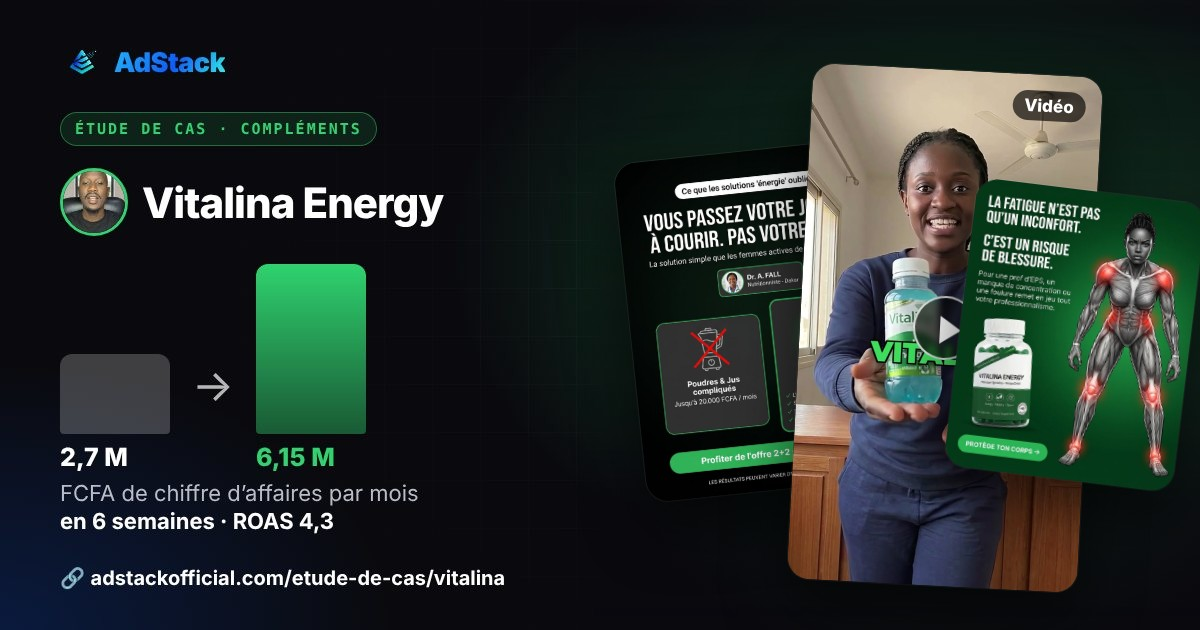
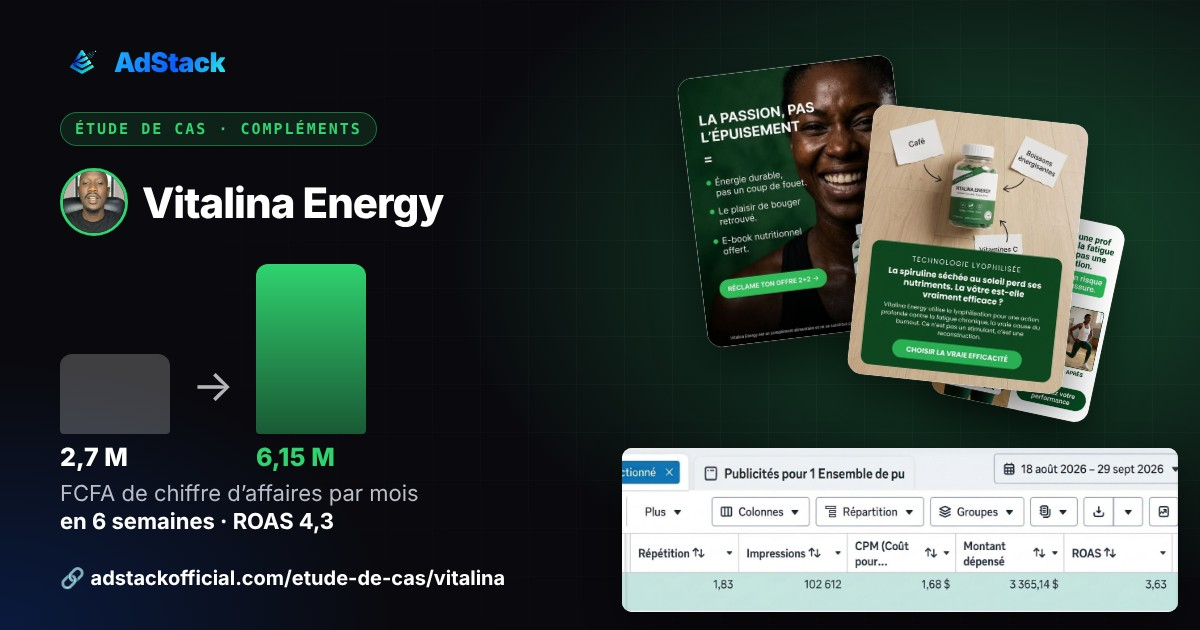
Vitalina: preuve Ads Manager

diff --git a/public/etude-de-cas-vitalina.html b/public/etude-de-cas-vitalina.html
@@ -9,11 +9,11 @@
 <meta property="og:title" content="Vitalina Energy : 2,7 M → 6,15 M FCFA par mois en 6 semaines">
 <meta property="og:description" content="Étude de cas AdStack : comment une marque de compléments a doublé son chiffre d’affaires mensuel.">
 <meta property="og:url" content="https://www.adstackofficial.com/etude-de-cas/vitalina">
-<meta property="og:image" content="https://www.adstackofficial.com/assets/miniatures/etude-de-cas-vitalina.jpg?v=2">
+<meta property="og:image" content="https://www.adstackofficial.com/assets/miniatures/etude-de-cas-vitalina.jpg?v=3">
 <meta property="og:image:width" content="1200">
 <meta property="og:image:height" content="630">
 <meta name="twitter:card" content="summary_large_image">
-<meta name="twitter:image" content="https://www.adstackofficial.com/assets/miniatures/etude-de-cas-vitalina.jpg?v=2">
+<meta name="twitter:image" content="https://www.adstackofficial.com/assets/miniatures/etude-de-cas-vitalina.jpg?v=3">
 
 <meta name="description" content="Comment une marque e-commerce a trouvé ses créatives gagnantes avec AdStack.">
 <link rel="icon" href="/favicon.ico">
@@ -47,6 +47,7 @@ h2{font-size:clamp(24px,3.6vw,34px);line-height:1.2;letter-spacing:-.5px;margin:
 .fig b{display:block;font-size:clamp(26px,4vw,40px);line-height:1.1;letter-spacing:-1px;background:linear-gradient(135deg,var(--a),#7fe3ff);-webkit-background-clip:text;background-clip:text;color:transparent}
 .fig span{display:block;margin-top:8px;font-size:13px;color:var(--mut)}
 .quote{display:grid;grid-template-columns:1fr;gap:22px}
+.proof{margin:0 0 4px}.proof img{display:block;width:100%;height:auto;border-radius:16px;border:1px solid rgba(255,255,255,.14);box-shadow:0 18px 50px rgba(0,0,0,.45)}.proof figcaption{margin-top:10px;font-size:13px;color:var(--mut)}
 .quote blockquote{margin:0;font-size:clamp(19px,2.6vw,26px);line-height:1.4;font-weight:600}
 .who{display:flex;align-items:center;gap:12px;margin-top:18px;font-size:14px;color:var(--mut)}
 .who img{width:52px;height:52px;border-radius:50%;object-fit:cover}
@@ -404,7 +405,7 @@ h+=figs((D.chiffres||[]).slice(0,4))+'</div></section>';
 var t=D.temoignage||{};
 if(t.texte||t.youtube){h+='<section class="s"><div class="wrap rv"><div class="eyebrow">Ce que dit le fondateur</div><h2>Entendu directement de la marque</h2><div class="quote">';
  if(t.youtube)h+='<div class="video"><iframe src="https://www.youtube-nocookie.com/embed/'+esc(t.youtube)+'" title="Témoignage" loading="lazy" allowfullscreen></iframe></div>';
- if(t.texte){h+='<div><blockquote>« '+esc(t.texte)+' »</blockquote>';
+ if(t.texte){h+='<div>'+(t.preuve&&t.preuve.img?'<figure class="proof"><img src="'+esc(t.preuve.img)+'" alt="" loading="lazy"></figure>':'')+'<blockquote>« '+esc(t.texte)+' »</blockquote>';
   if(t.nom)h+='<div class="who">'+(t.photo?'<img src="'+esc(t.photo)+'" alt="'+esc(t.nom)+'">':'')+'<div><b>'+esc(t.nom)+'</b>'+esc(t.role)+'</div></div>';
   h+='</div>'}
  h+='</div></div></section>'}

diff --git a/public/etude-de-cas-data.js b/public/etude-de-cas-data.js
@@ -33,6 +33,7 @@ window.ETUDE_DE_CAS = {
   // Témoignage
   temoignage: {
     texte: "Avant AdStack, j’avais de bons résultats publicitaires, mais jamais assez stables pour augmenter mon budget sans casser ma rentabilité. Résultat : six mois de stagnation, très difficiles à vivre. Aujourd’hui, avec tout ce système créatif en place, mes campagnes sont beaucoup plus stables. J’ai de plus en plus de créatives gagnantes et je peux augmenter mon budget pub sans crainte. J’ai doublé mon chiffre d’affaires, et j’envisage d’aller chercher avec eux plusieurs dizaines de milliers de dollars de chiffre d’affaires par mois.",
+    preuve: { img: "/assets/vente/vitalina-ads-manager.jpg" },
     nom: "Aliou Cissé",
     role: "Fondateur de Vitalina",
     photo: "/assets/vente/aliou-cisse.jpg",
